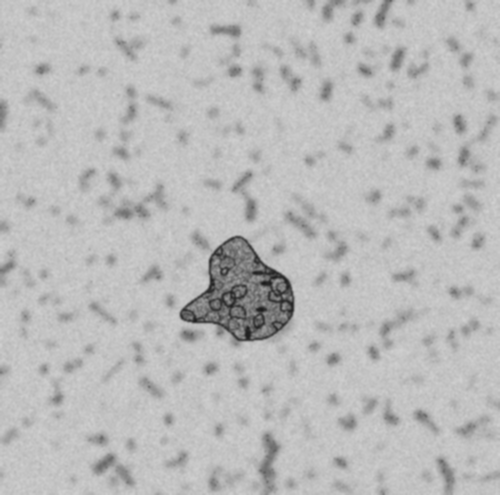
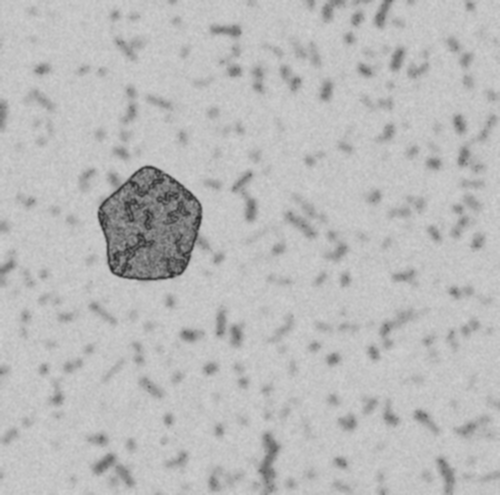
Added line generator usage

Changed region(s): [[0.18, 0.3333, 0.6, 0.697]]

diff --git a/main.py b/main.py
@@ -9,6 +9,7 @@ import random
 import math
 import itertools
 import cv2
+import line
 
 
 def build_path(points):
@@ -95,6 +96,7 @@ class Window(QMainWindow):
         self.filled_space = set()
         self.max_x, self.max_y = -1, -1
         self.min_x, self.min_y = 501, 496
+        self.center_x, self.center_y = -1, -1
         self.full_dark_color = QColor().fromRgb(10, 10, 10)
         self.dark_color = QColor().fromRgb(135, 135, 135)
         self.light_color = QColor().fromRgb(155, 155, 155)
@@ -109,7 +111,9 @@ class Window(QMainWindow):
         painter.drawImage(QRect(0, 0, self.width, self.height), self.image)
 
     def draw_mitochondrion_boundaries(self):
-        self.bounds_points = points_generator(random.randint(25, 475), random.randint(25, 475), 10)
+        self.center_x = random.randint(25, 475)
+        self.center_y = random.randint(25, 475)
+        self.bounds_points = points_generator(self.center_x, self.center_y, 10)
         self.max_x, self.max_y = -1, -1
         self.min_x, self.min_y = 501, 496
         for point in self.bounds_points:
@@ -132,6 +136,16 @@ class Window(QMainWindow):
         painter.setPen(QPen(self.dark_color, 2))
         path.moveTo(self.bounds_points[0])
         painter.drawPath(path)
+        left_upper = QPoint(self.min_x, self.min_y)
+        left_lower = QPoint(self.min_x, self.max_y)
+        right_upper = QPoint(self.max_x, self.min_y)
+        right_lower = QPoint(self.max_x, self.max_y)
+        # painter.drawRect(self.min_x, self.min_y, int(self.max_x - self.min_x), int(self.max_y - self.min_y))
+        painter.setBrush((QBrush(Qt.red)))
+        painter.drawLine(left_upper, left_lower)
+        painter.drawLine(left_lower, right_lower)
+        painter.drawLine(right_lower, right_upper)
+        painter.drawLine(right_upper, left_upper)
         # uncomment for double line
         '''painter.setPen(QPen(self.light_color, 4))
         path.moveTo(self.bounds_points[0])
@@ -196,10 +210,39 @@ class Window(QMainWindow):
         self.update()
         self.save_image('no_background')
 
+    def lay_lines(self, cnt):
+        painter = QPainter(self.image)
+        for i in range(cnt):
+            line.generate_line(i)
+
+        for i in range(cnt):
+            # x_rand = random.randint(self.min_x, self.max_x)
+            # y_rand = random.randint(self.min_y, self.max_y)
+            x_rand = random.randint(0,  int(self.max_x - self.min_x)) + self.min_x
+            y_rand = random.randint(0,  int(self.max_y - self.min_y)) + self.min_y
+            # print(x_rand, y_rand)
+            directory = os.path.join(os.getcwd(), 'lines')
+            file_name = f'line_{i}'
+            path = os.path.join(directory, file_name + '.png')
+            scale_size = random.randint(20, 30)
+            line_pixmap = QPixmap(path).scaled(scale_size, scale_size)
+            rotated_pixmap = line_pixmap.transformed(QTransform().rotate(random.randint(0, 180)), Qt.FastTransformation)
+            painter.drawPixmap(x_rand - scale_size // 2, y_rand - scale_size // 2, rotated_pixmap)
+        for x in range(500):
+            for y in range(495):
+                if self.mask_image.pixelColor(x, y) == Qt.white \
+                    and ((self.image.pixelColor(x, y) == self.dark_color)
+                         or (self.image.pixelColor(x, y) == self.light_color)):
+                    painter.setPen(QPen(Qt.white))
+                    painter.drawPoint(x, y)
+        self.update()
+        self.save_image('test')
+
     def draw_mitochondrion(self, cnt, dots_cnt, curves_cnt, low, middle, high):
         for _ in range(cnt):
             self.draw_mitochondrion_boundaries()
-            self.draw_mitochondrion_insides(dots_cnt, curves_cnt)
+            # self.draw_mitochondrion_insides(dots_cnt, curves_cnt)
+            self.lay_lines(40)
         self.lay_background(low, middle, high)
         self.init_window()
 
@@ -253,7 +296,7 @@ if __name__ == '__main__':
     # semi dark - 25, 90, 190
     # semi light - 70, 140, 195
     # light - 130, 150, 195
-    window.draw_mitochondrion(1, 5, 60, 10, 50, 200)
+    window.draw_mitochondrion(1, 0, 0, 10, 50, 200)
     # window.draw_mitochondrion(m_cnt, e_cnt, c_cnt, colors[0], colors[1], colors[2])
     image = cv2.imread('mitochondrion_background.png')
     img_blur = cv2.GaussianBlur(image, (5, 5), 0)

diff --git a/line.py b/line.py
@@ -86,7 +86,7 @@ class Window(QWidget):
         # self.path.quadTo(cp1, points[-1])
 
     def draw(self, cnt):
-        self.image.fill(Qt.white)
+        # self.image.fill(Qt.white)
         painter = QPainter(self.image)
         pen = QPen()
         pen.setColor(QColor().fromRgb(135, 135, 135))
@@ -99,7 +99,7 @@ class Window(QWidget):
         pen = QPen()
         pen.setColor(QColor().fromRgb(155, 155, 155))
         pen.setCapStyle(Qt.RoundCap)
-        pen.setWidth(30)
+        pen.setWidth(20)
         painter.setPen(pen)
         painter.drawPath(self.path)
         self.update()
@@ -108,19 +108,21 @@ class Window(QWidget):
         self.save_image(cnt)
 
     def save_image(self, cnt):
-        directory = os.getcwd()
+        directory = os.path.join(os.getcwd(), 'lines')
         file_name = f'line_{cnt}'
         if file_name:
             path = os.path.join(directory, file_name + '.png')
-            scaled_image = self.image.scaled(50, 50)
-            scaled_image.save(path)
+            # scaled_image = self.image.scaled(50, 50)
+            pixmap = QPixmap(self.image)
+            pixmap.setMask(pixmap.createHeuristicMask(Qt.transparent))
+            pixmap.save(path)
 
 
-if __name__ == '__main__':
-    App = QApplication(sys.argv)
+def generate_line(cnt):
+    # app = QApplication(sys.argv)
     window = Window()
-    for i in range(10):
-        points = points_generator(70, 70, 4)
-        window.build_path(points)
-        window.draw(i)
-    sys.exit(App.exit(0))
+    points = points_generator(70, 70, 4)
+    window.build_path(points)
+    window.draw(cnt)
+
+    # sys.exit(app.exit(0))
